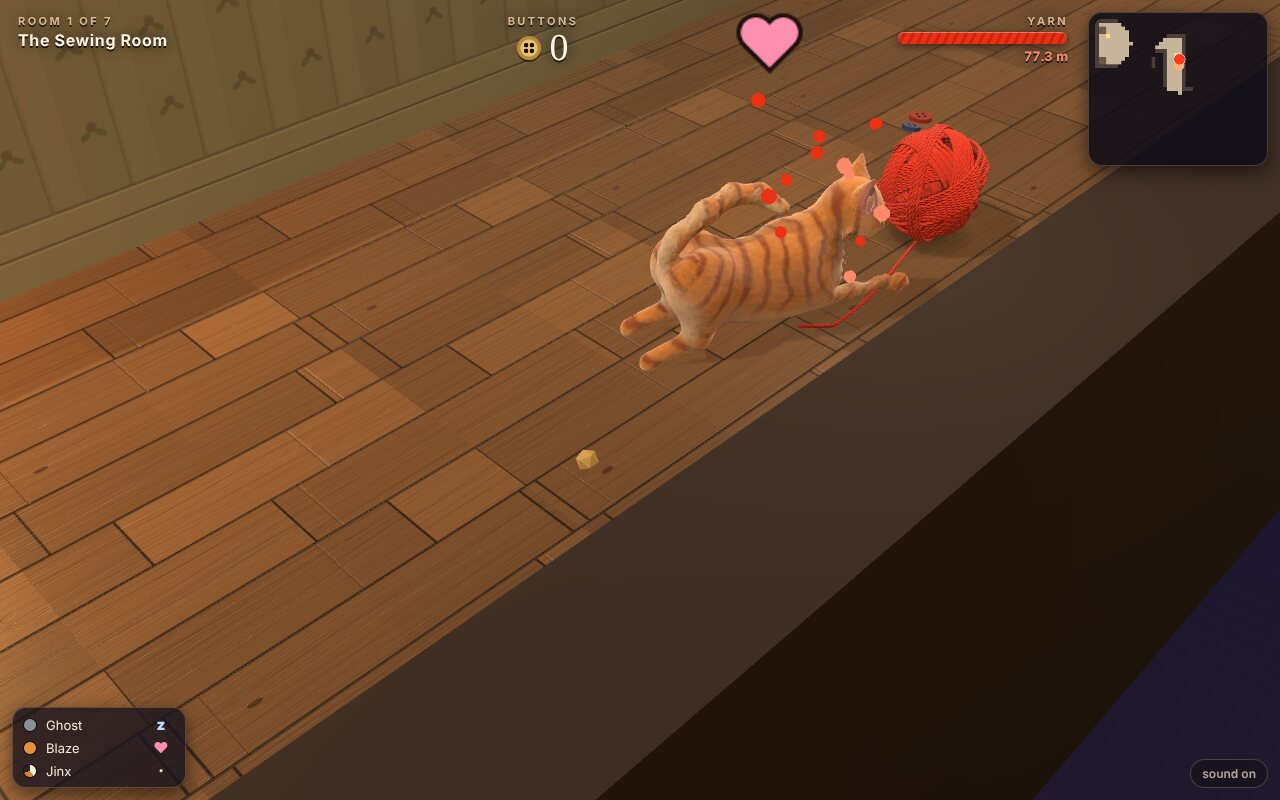
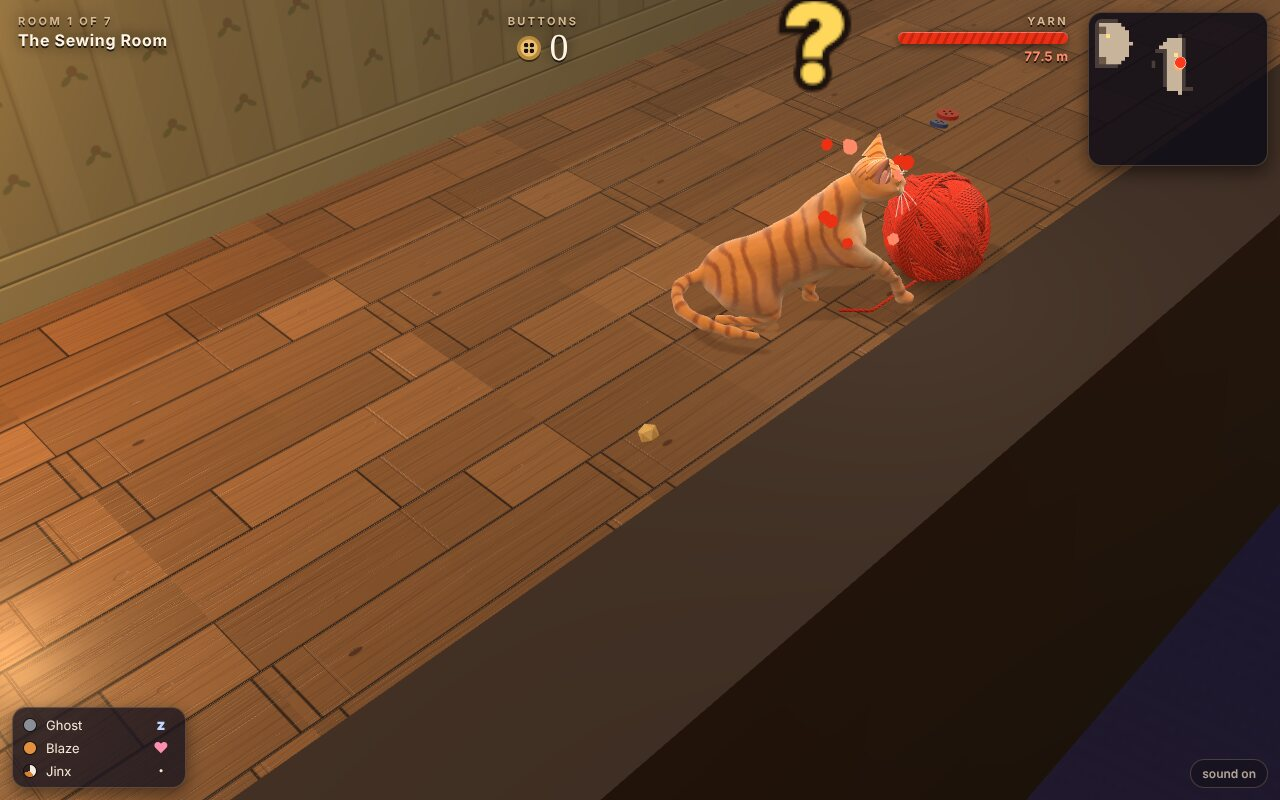
Whiskers, a tidier mouse, wall lights that face the room, new screenshots
Each cat has fine white whiskers, four from each whisker pad and two over
each eye, moved with the head. The mouse loses its lumpy fur, its buck
teeth and its mouth slit, and gets thicker, cleaner ears. Wall lights are
brass sconces on the face of the wall toward the room, with the light out
in front of them, and the doorway's frame is rounded over. The README's
screenshots show the new cats and furniture.

Claude-Session: https://claude.ai/code/session_01Y9D7iwPbKH2H9r2GH4JoZW

diff --git a/src/models/cast/mouse.js b/src/models/cast/mouse.js
@@ -33,7 +33,7 @@ export default {
   scale: 0.6,
   cell: 0.0075,
   // The small, sharp things get a finer grid of their own.
-  cells: { eyes: 0.0024, irises: 0.0014, pupils: 0.001, teeth: 0.0025, ears: 0.003 },
+  cells: { eyes: 0.0024, irises: 0.0014, pupils: 0.001, teeth: 0.002, ears: 0.0013 },
   bones: [
     ['root', null, [0, 0, 0]],
     ['body', 'root', [0, 0.16, -0.04]],
@@ -66,15 +66,13 @@ export default {
     mouth: { roughness: 0.4, clearcoat: 0.8 },
   },
   sculpt(s) {
-    const F = { color: fur, mat: 'fur', locks: [0.022, 0.0045, 2, 3.2] };
+    const F = { color: fur, mat: 'fur' };
     const H = { color: fur, mat: 'fur' };
     // Body: big haunches, narrower chest, a sagging belly, a hunched neck.
     s.ellipsoid([0, 0.17, -0.07], [0.13, 0.128, 0.165], { ...F, bone: 'body', k: 0.02, rot: [-0.15, 0, 0] });
     s.ellipsoid([0, 0.125, -0.01], [0.1, 0.075, 0.14], { ...F, bone: 'body', k: 0.06 });
     s.ellipsoid([0, 0.168, 0.085], [0.094, 0.1, 0.115], { ...F, bone: 'chest', k: 0.07, rot: [0.25, 0, 0] });
     s.limb([0, 0.2, 0.09], [0, 0.215, 0.18], 0.078, 0.066, { ...F, bone: 'chest', k: 0.05 });
-    // A ridge down the spine.
-    s.chain([[0, 0.28, -0.12], [0, 0.275, 0.0], [0, 0.262, 0.1]], [0.025, 0.03, 0.022], { ...F, bone: 'body', k: 0.06 });
 
     // Head: a long wedge of a skull, fat cheeks, a blunt snout with a pink nose.
     s.ellipsoid([0, 0.218, 0.212], [0.074, 0.07, 0.088], { ...H, bone: 'head', k: 0.05 });
@@ -82,11 +80,10 @@ export default {
     s.limb([0, 0.206, 0.25], [0, 0.191, 0.338], 0.05, 0.022, { ...H, bone: 'head', k: 0.03 });
     s.sphere([0, 0.193, 0.352], 0.017, { color: '#e79a9a', mat: 'nose', bone: 'head', k: 0.012 });
     s.mirror((m) => s.sphere([m * 0.008, 0.189, 0.364], 0.005, { op: 'sub', k: 0.004 }));
-    // The lower jaw, with a slit of a mouth between it and the snout.
+    // The lower jaw, tucked under the snout.
     s.limb([0, 0.165, 0.228], [0, 0.157, 0.302], 0.034, 0.013, { ...H, bone: 'jaw', k: 0.03 });
-    s.box([0, 0.169, 0.3], [0.05, 0.0045, 0.055], 0.003, { op: 'sub', k: 0.008, rot: [-0.12, 0, 0] });
-    // Little white incisors.
-    s.part('teeth', () => s.mirror((m) => s.box([m * 0.0058, 0.159, 0.337], [0.0052, 0.0155, 0.0038], 0.0022, { color: '#f2ead6', mat: 'tooth', bone: 'head', k: 0.002, rot: [0.22, 0, m * 0.06] })));
+    // Little incisors, just showing under the nose.
+    s.part('teeth', () => s.mirror((m) => s.box([m * 0.0042, 0.168, 0.33], [0.0038, 0.0085, 0.0028], 0.0016, { color: '#efe2c4', mat: 'tooth', bone: 'head', k: 0.002, rot: [0.22, 0, m * 0.05] })));
     // Eye sockets.
     s.mirror((m) => s.sphere([m * 0.05, 0.233, 0.272], 0.021, { op: 'sub', k: 0.01 }));
     // Eyes: bright black beads.
@@ -106,9 +103,9 @@ export default {
       const R = rotation(rot);
       const c = [m * 0.068, 0.296, 0.18];
       const f = turn(R, [0, 0, 1]);
-      s.ellipsoid(c, [0.064, 0.068, 0.011], { ...H, bump: null, bone: `ear${side(m)}`, k: 0.02, rot });
+      s.ellipsoid(c, [0.064, 0.068, 0.0145], { ...H, bump: null, bone: `ear${side(m)}`, k: 0.02, rot });
       const cup = [c[0] + f[0] * 0.012, c[1] + f[1] * 0.012 + 0.004, c[2] + f[2] * 0.012];
-      s.ellipsoid(cup, [0.05, 0.054, 0.007], { op: 'sub', k: 0.01, rot });
+      s.ellipsoid(cup, [0.052, 0.056, 0.0085], { op: 'sub', k: 0.012, rot });
       s.paint((p) => {
         const q = [p[0] - cup[0], p[1] - cup[1], p[2] - cup[2]];
         return Math.hypot(q[0], q[1], q[2]) - 0.058;
@@ -132,7 +129,7 @@ export default {
     // A long, bare, scaly tail.
     s.chain(
       [[0, 0.15, -0.21], [0, 0.118, -0.34], [0.02, 0.074, -0.47], [0.06, 0.034, -0.6], [0.11, 0.018, -0.72]],
-      [0.036, 0.026, 0.019, 0.012, 0.005],
+      [0.027, 0.02, 0.015, 0.01, 0.005],
       { color: tail, mat: 'skin', bones: ['tail1', 'tail2', 'tail3', 'tail4'], k: 0.02 },
     );
   },

diff --git a/src/scenery.js b/src/scenery.js
@@ -1,5 +1,5 @@
 import { place } from './furniture.js';
-import { ball, books, cushion, joined, lathe, leaf, moved, ring, roundedBox, slab, swept, tinted, tube } from './shapes.js';
+import { ball, books, cushion, geometry, joined, lathe, leaf, moved, ring, roundedBox, slab, swept, tinted, tube } from './shapes.js';
 import { createWaterMaterial } from './water.js';
 
 /**
@@ -710,16 +710,32 @@ export function createLamps(GFX, house) {
   const brass = new GFX.MeshPhysicalMaterial({ name: 'sconce', color: new GFX.Color('#c8a050'), roughness: 0.3, metalness: 1 });
   const shade = new GFX.MeshPhysicalMaterial({ name: 'sconce-shade', color: new GFX.Color('#f6e6c0'), emissive: new GFX.Color('#ffc870'), emissiveIntensity: 1.8, roughness: 0.9, side: GFX.DoubleSide });
   const bulbs = [];
+  // A brass wall light: a plate on the wall, an arm curling out and up, a cup of a shade on it, lit from inside.
+  const sconce = {
+    arm: geometry(GFX, joined([
+      tube([[0, -0.75, 0], [0, -0.68, 0.1], [0, -0.48, 0.2], [0, -0.28, 0.22]], 0.035, { radial: 8 }),
+      moved(lathe([[0, 0], [0.14, 0], [0.15, 0.02], [0.1, 0.05], [0, 0.05]], 18), [0, -0.75, 0.0], [-Math.PI / 2, 0, 0]),
+      moved(lathe([[0, 0], [0.07, 0], [0.08, 0.04], [0.05, 0.08], [0, 0.08]], 14), [0, -0.3, 0.22]),
+    ])),
+    shade: geometry(GFX, moved(lathe([[0.32, 0], [0.31, 0.04], [0.26, 0.2], [0.22, 0.34], [0.22, 0.36]], 24), [0, -0.3, 0.22])),
+  };
   for (const [x, y, z] of house.lamps) {
     const g = new GFX.Group();
-    g.position.set(x, y, z);
-    const arm = new GFX.Mesh(new GFX.CylinderGeometry(0.04, 0.04, 0.5, 8), brass);
-    arm.position.y = -0.35;
-    const cup = new GFX.Mesh(new GFX.CylinderGeometry(0.22, 0.32, 0.36, 16, 1, true), shade);
+    // On the face of the wall toward the room, turned to face into it.
+    const cx = Math.floor(x), cz = Math.floor(z);
+    const into = [[0, 1], [0, -1], [1, 0], [-1, 0]].find(([dx, dz]) => {
+      const n = house.cell(cx + dx, cz + dz);
+      return n && n.kind !== 'wall';
+    }) ?? [0, 1];
+    const onWall = house.cell(cx, cz)?.kind === 'wall';
+    g.position.set(x + (onWall ? into[0] * 0.5 : 0), y, z + (onWall ? into[1] * 0.5 : 0));
+    g.rotation.y = Math.atan2(into[0], into[1]);
+    const arm = new GFX.Mesh(sconce.arm, brass);
+    const cup = new GFX.Mesh(sconce.shade, shade);
     g.add(arm, cup);
     arm.castShadow = true;
     group.add(g);
-    bulbs.push([x, y, z]);
+    bulbs.push([g.position.x + into[0] * 0.25, y - 0.15, g.position.z + into[1] * 0.25]);
   }
   for (const f of house.furniture) if (f.lamp) bulbs.push(f.lamp);
   return { group, bulbs };
@@ -765,12 +781,12 @@ export function createExit(GFX, house, { last = false } = {}) {
     else mesh.position.set(side.at + off, up, a);
   };
   const lintel = side.along === 'x'
-    ? new GFX.Mesh(new GFX.BoxGeometry(width + 0.6, 0.35, 0.4), paint)
-    : new GFX.Mesh(new GFX.BoxGeometry(0.4, 0.35, width + 0.6), paint);
+    ? new GFX.Mesh(geometry(GFX, roundedBox(width + 0.7, 0.4, 0.42, 0.06, 2)), paint)
+    : new GFX.Mesh(geometry(GFX, roundedBox(0.42, 0.4, width + 0.7, 0.06, 2)), paint);
   place(lintel, from + width / 2, y + height + 0.17);
   group.add(lintel);
   for (const a of [from - 0.1, to + 0.1]) {
-    const post = new GFX.Mesh(new GFX.BoxGeometry(0.3, height, 0.3), paint);
+    const post = new GFX.Mesh(geometry(GFX, roundedBox(0.32, height, 0.32, 0.05, 2)), paint);
     place(post, a, y + height / 2);
     group.add(post);
   }

diff --git a/src/cats.js b/src/cats.js
@@ -451,16 +451,66 @@ export function createCatMesh(GFX, kind) {
   const name = `cat-${CAT_KINDS[kind].coat}`;
   const group = new GFX.Group();
   group.name = name;
-  let model = null;
+  let model = null, lines = null, head = 0;
   const attach = () => {
     model = createModel(GFX, CAT_DEFS[name], { detail: BOARD_DETAIL });
     group.add(model.group);
+    lines = whiskers(GFX);
+    lines.matrixAutoUpdate = false;
+    model.mesh.add(lines);
+    head = model.skeleton.index.get('head') * 12;
   };
   if (isBaked(name, BOARD_DETAIL)) attach();
   else if (typeof window !== 'undefined') ready(name, BOARD_DETAIL).then(attach);
   return {
     group,
     get model() { return model; },
-    animate(state) { model?.pose(state); },
+    animate(state) {
+      if (!model) return;
+      model.pose(state);
+      // The whiskers go where the head goes: its bone's matrix (3 × 4, by rows) as theirs (4 × 4, by columns).
+      const M = model.skeleton.matrices, e = lines.matrix.elements, o = head;
+      e[0] = M[o]; e[1] = M[o + 4]; e[2] = M[o + 8]; e[3] = 0;
+      e[4] = M[o + 1]; e[5] = M[o + 5]; e[6] = M[o + 9]; e[7] = 0;
+      e[8] = M[o + 2]; e[9] = M[o + 6]; e[10] = M[o + 10]; e[11] = 0;
+      e[12] = M[o + 3]; e[13] = M[o + 7]; e[14] = M[o + 11]; e[15] = 1;
+      lines.matrixWorldNeedsUpdate = true;
+    },
   };
+}
+
+const whiskerShapes = new WeakMap();
+
+/**
+ * A cat's whiskers, as fine lines in the sculpt's frame: four from each
+ * whisker pad, fanned and drooping, and two over each eye. One shape for
+ * every cat.
+ */
+function whiskers(GFX) {
+  if (!whiskerShapes.has(GFX)) {
+    const pts = [];
+    const strand = (root, dir, len, droop) => {
+      const l = Math.hypot(...dir), d = dir.map((v) => v / l);
+      let prev = root;
+      for (let j = 1; j <= 5; j++) {
+        const t = j / 5;
+        const p = [root[0] + d[0] * len * t, root[1] + d[1] * len * t - droop * t * t, root[2] + d[2] * len * t];
+        pts.push(...prev, ...p);
+        prev = p;
+      }
+    };
+    for (const m of [1, -1]) {
+      for (let k = 0; k < 4; k++) strand([m * (0.0135 + k * 0.0012), 0.2815 - k * 0.0028, 0.2465 - k * 0.0012], [m, 0.16 - k * 0.11, 0.32 - k * 0.2], 0.058 - k * 0.004, 0.01 + k * 0.002);
+      for (let k = 0; k < 2; k++) strand([m * (0.016 + k * 0.006), 0.318, 0.233 - k * 0.003], [m * 0.7, 0.8, 0.4], 0.03 - k * 0.006, 0.006);
+    }
+    const geometry = new GFX.BufferGeometry();
+    geometry.setAttribute('position', new GFX.BufferAttribute(new Float32Array(pts), 3));
+    geometry.computeBoundingSphere();
+    const material = new GFX.LineBasicMaterial({ name: 'whiskers', color: new GFX.Color('#f4f0e8'), transparent: true, opacity: 0.7 });
+    whiskerShapes.set(GFX, { geometry, material });
+  }
+  const { geometry, material } = whiskerShapes.get(GFX);
+  const lines = new GFX.LineSegments(geometry, material);
+  lines.name = 'whiskers';
+  return lines;
 }

diff --git a/README.md b/README.md
@@ -135,9 +135,10 @@ near you.
 | `src/yarn/ball.js` | Carol's ball rolled by the game's physics instead of along Carol's route. It rolls free until something catches the end, then lays the strand out along the floor and poses the ball from it. It also winds the strand back on, snaps it, and cuts off the piece that is left behind. |
 | `src/physics.js` | The ball physics, as Dungeon Roller has it. |
 | `src/house.js`, `src/dig.js` | Tiles with four corner heights, as Dungeon Roller's dungeons have, turned into rooms: floors of wood, carpet, tile, boards and stone, papered walls, stairs, spills, and the furniture. The digger lays a level out a piece at a time. |
-| `src/furniture.js`, `src/scenery.js` | The furniture, as boxes for the physics and the cats, and the painted textures. |
+| `src/furniture.js`, `src/scenery.js` | The furniture: solid boxes for the physics and the cats, and everything drawn over them, from cushions and turned legs to books, piano keys and a fire in the grate. Also the painted textures. |
+| `src/shapes.js` | The shapes the furniture and props are made of: rounded boxes, cushions, lathe turnings, swept baths and basins, tubes, leaves and rows of books. |
 | `src/levels.js` | The seven rooms. |
-| `src/models/` | The cats and the mouse, sculpted in code from signed distance fields, rigged and baked in workers. See `models.html` for a turntable. |
+| `src/models/` | The cats and the mouse, sculpted in code from signed distance fields, rigged and baked in workers. The cats are built bone by bone like a real cat, so they can sit on their haunches, curl up in a loaf, walk and gallop, and they blend from one pose to the next. See `models.html` for a turntable. |
 | `src/nav.js` | How the cats find their way round the furniture. |
 | `src/cats.js` | What each cat sees and hears, and what it does about it. |
 | `src/critters.js` | Mice, flies and beetles: their rounds, and where they bolt to. |
